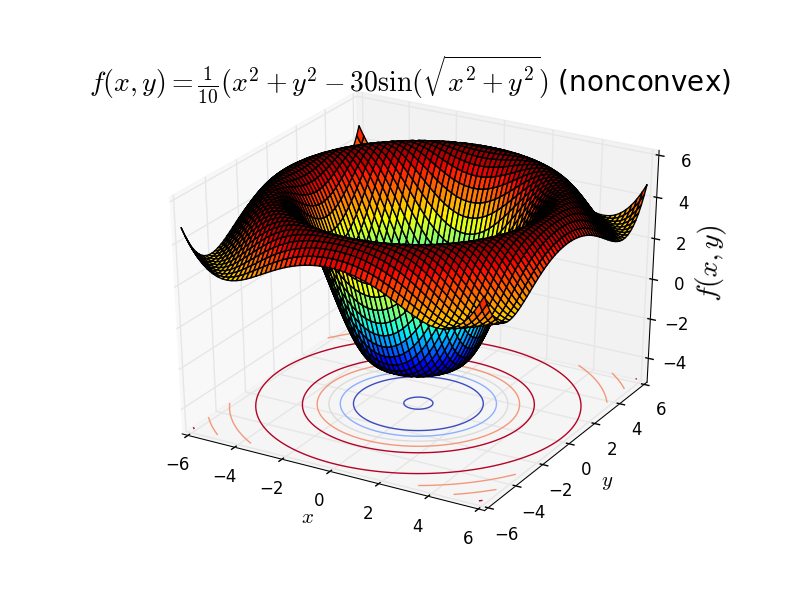
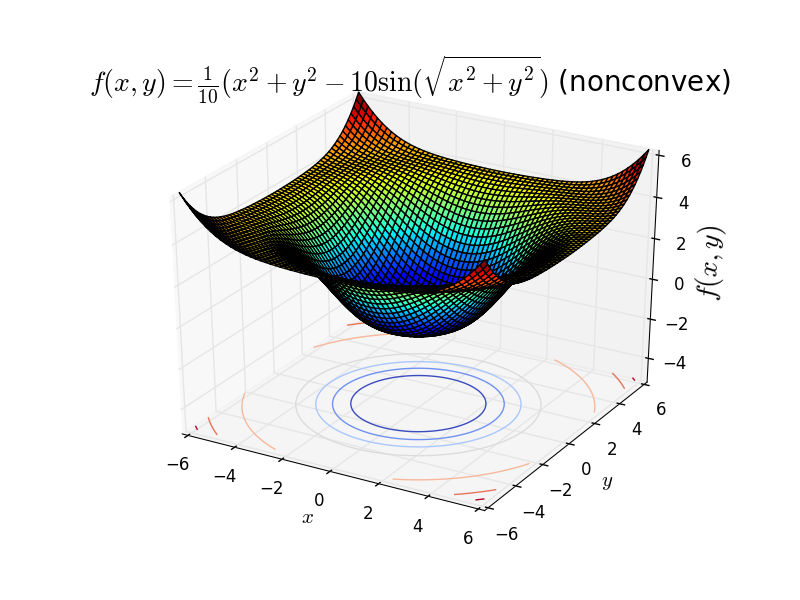
minor clean up

diff --git a/assets/16_convexity/matplotlib/norm2_surf.py b/assets/16_convexity/matplotlib/norm2_surf.py
@@ -86,7 +86,7 @@ elif choose == 2:
 elif choose == 3: 
 	Z = X**2 - Y**2
 elif choose == 4:
-	Z = 0.1*(X**2 + Y**2 - 30*np.sin(np.sqrt(X**2 + Y**2)))
+	Z = 0.1*(X**2 + Y**2 - 10*np.sin(np.sqrt(X**2 + Y**2)))
 
 ax.plot_surface(X, Y, Z, rstride=8, cstride=8, alpha=1, cmap=cm.jet)
 cset = ax.contour(X, Y, Z, zdir='z', offset=-5, cmap=cm.coolwarm)
@@ -106,7 +106,7 @@ elif choose == 3:
 elif choose == 4:
 	# ax.set_zlabel('$f(x, y) = \\frac{1}{10}(x^2 + 2y^2 - 2\sin(xy)$', fontsize = 20)
 	ax.set_zlabel('$f(x, y)$', fontsize = 20)
-ax.set_title('$f(x, y) = \\frac{1}{10}(x^2 + y^2 - 30\sin(\sqrt{x^2 + y^2})$ (nonconvex)', fontsize = 20)
+ax.set_title('$f(x, y) = \\frac{1}{10}(x^2 + y^2 - 10\sin(\sqrt{x^2 + y^2})$ (nonconvex)', fontsize = 20)
 ax.set_zlim(-5, 6)
 
 

diff --git a/_posts/2017-03-12-convexity.md b/_posts/2017-03-12-convexity.md
@@ -551,15 +551,15 @@ Các ví dụ ở hình 10, trừ hình cuối cùng, đều tương ứng với
 
 Một ví dụ về việc một hàm số không _convex_ nhưng mọi \\(\alpha-\\) sublevel sets là _convex_ là hàm \\(f(x, y) = -e^{x+y}\\). Hàm này có mọi \\(\alpha-\\) sublevel sets là nửa mặt phẳng - là _convex_, nhưng nó không phải là _convex_ (trong trường hợp này nó là _concave_).
 
-<!--- Dưới đây là một ví dụ về việc một hàm số có mọi \\(\alpha-\\) sublevel sets là _lồi_ nhưng không phải _hàm lồi_.
+Dưới đây là một ví dụ khác về việc một hàm số có mọi \\(\alpha-\\) sublevel sets là _lồi_ nhưng không phải _hàm lồi_.
 <hr>
 <div class="imgcap">
- <img src ="/assets/16_convexity/sin_surf.png" align = "center" width = "800">
+ <img src ="/assets/16_convexity/sin_surf2.png" align = "center" width = "800">
  <div class = "thecap">Hình 12. Mọi alpha-sublevel sets là convex sets nhưng hàm số là nonconvex.</div>
 </div>
 <hr>
 
-Mọi \\(\alpha-\\) sublevel sets của hàm số này đều là các hình tròn - _convex_ nhưng hàm số đó không phải là _lồi_. Vì có thể tìm được hai điểm trên mặt này sao cho đoạn thẳng nối hai điểm nằm hoàn toàn phía dưới của mặt (một điểm ở _cánh_ và 1 điểm ở _đáy_ chẳng hạn). -->
+Mọi \\(\alpha-\\) sublevel sets của hàm số này đều là các hình tròn - _convex_ nhưng hàm số đó không phải là _lồi_. Vì có thể tìm được hai điểm trên mặt này sao cho đoạn thẳng nối hai điểm nằm hoàn toàn phía dưới của mặt (một điểm ở _cánh_ và 1 điểm ở _đáy_ chẳng hạn). 
 
 <a name="-kiem-tra-tinh-chat-loi-dua-vao-dao-ham"></a>
 
